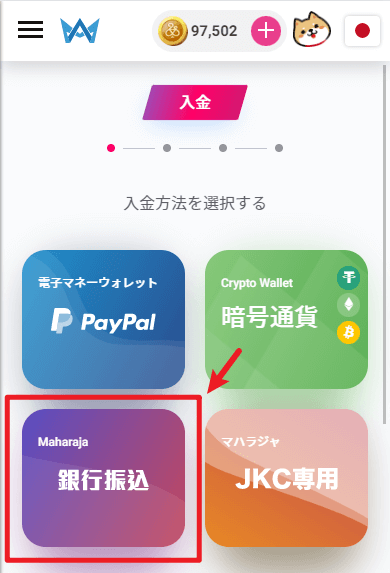
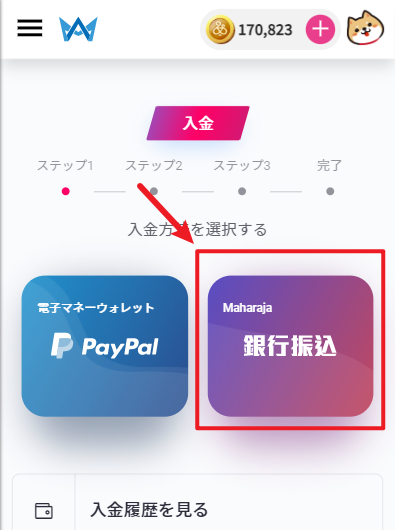
1

diff --git a/Article/guide_CashQa_CHT.html b/Article/guide_CashQa_CHT.html
@@ -354,10 +354,10 @@
                                         aria-controls="nav-PAYPAL" aria-selected="true" style="background: none;">PayPal
                                     </button>
 
-                                    <button class="nav-link col language_replace" id="navcrypto-tab"
+                                    <!--<button class="nav-link col language_replace" id="navcrypto-tab"
                                         data-bs-toggle="tab" data-bs-target="#navcrypto" type="button" role="tab"
                                         aria-controls="navcrypto" aria-selected="false"
-                                        style="background: none;">虛擬貨幣</button>
+                                        style="background: none;">虛擬貨幣</button>-->
 
                                     <button class="nav-link col language_replace" id="nav-bank-tab" data-bs-toggle="tab"
                                         data-bs-target="#nav-bank" type="button" role="tab" aria-controls="nav-bank"

diff --git a/Article/guide_CashQa_JPN.html b/Article/guide_CashQa_JPN.html
@@ -354,10 +354,10 @@
                                         aria-controls="nav-PAYPAL" aria-selected="true" style="background: none;">PayPal
                                     </button>
 
-                                    <button class="nav-link col language_replace" id="navcrypto-tab"
+                                    <!--<button class="nav-link col language_replace" id="navcrypto-tab"
                                         data-bs-toggle="tab" data-bs-target="#navcrypto" type="button" role="tab"
                                         aria-controls="navcrypto" aria-selected="false"
-                                        style="background: none;">暗号通貨</button>
+                                        style="background: none;">暗号通貨</button>-->
 
                                     <button class="nav-link col language_replace" id="nav-bank-tab" data-bs-toggle="tab"
                                         data-bs-target="#nav-bank" type="button" role="tab" aria-controls="nav-bank"
